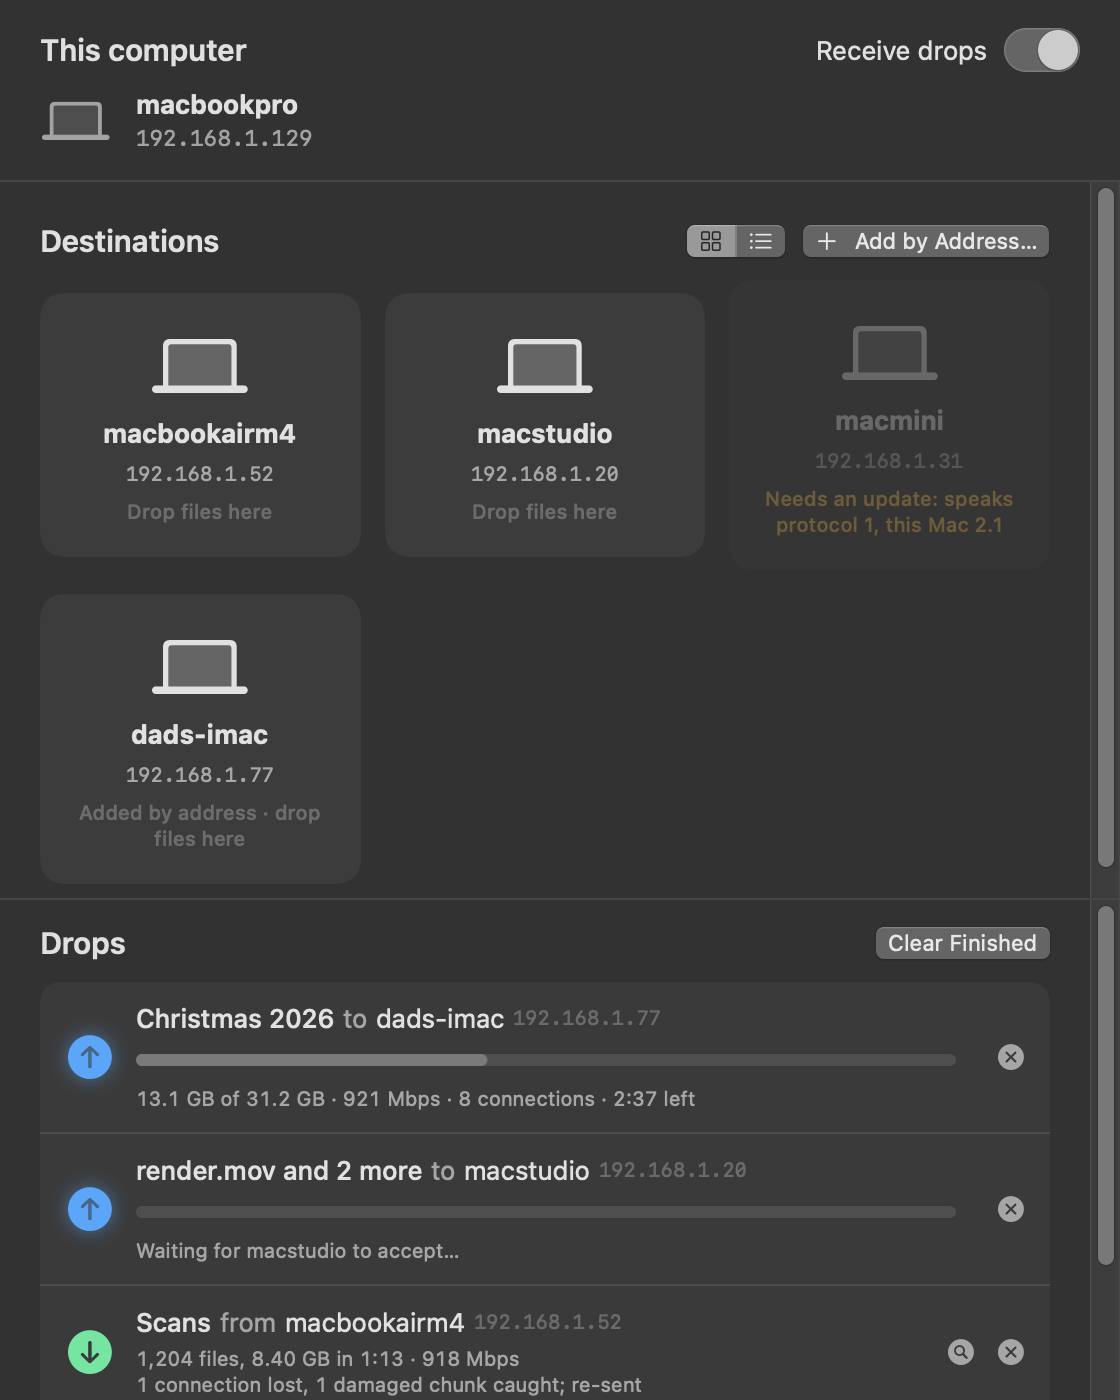
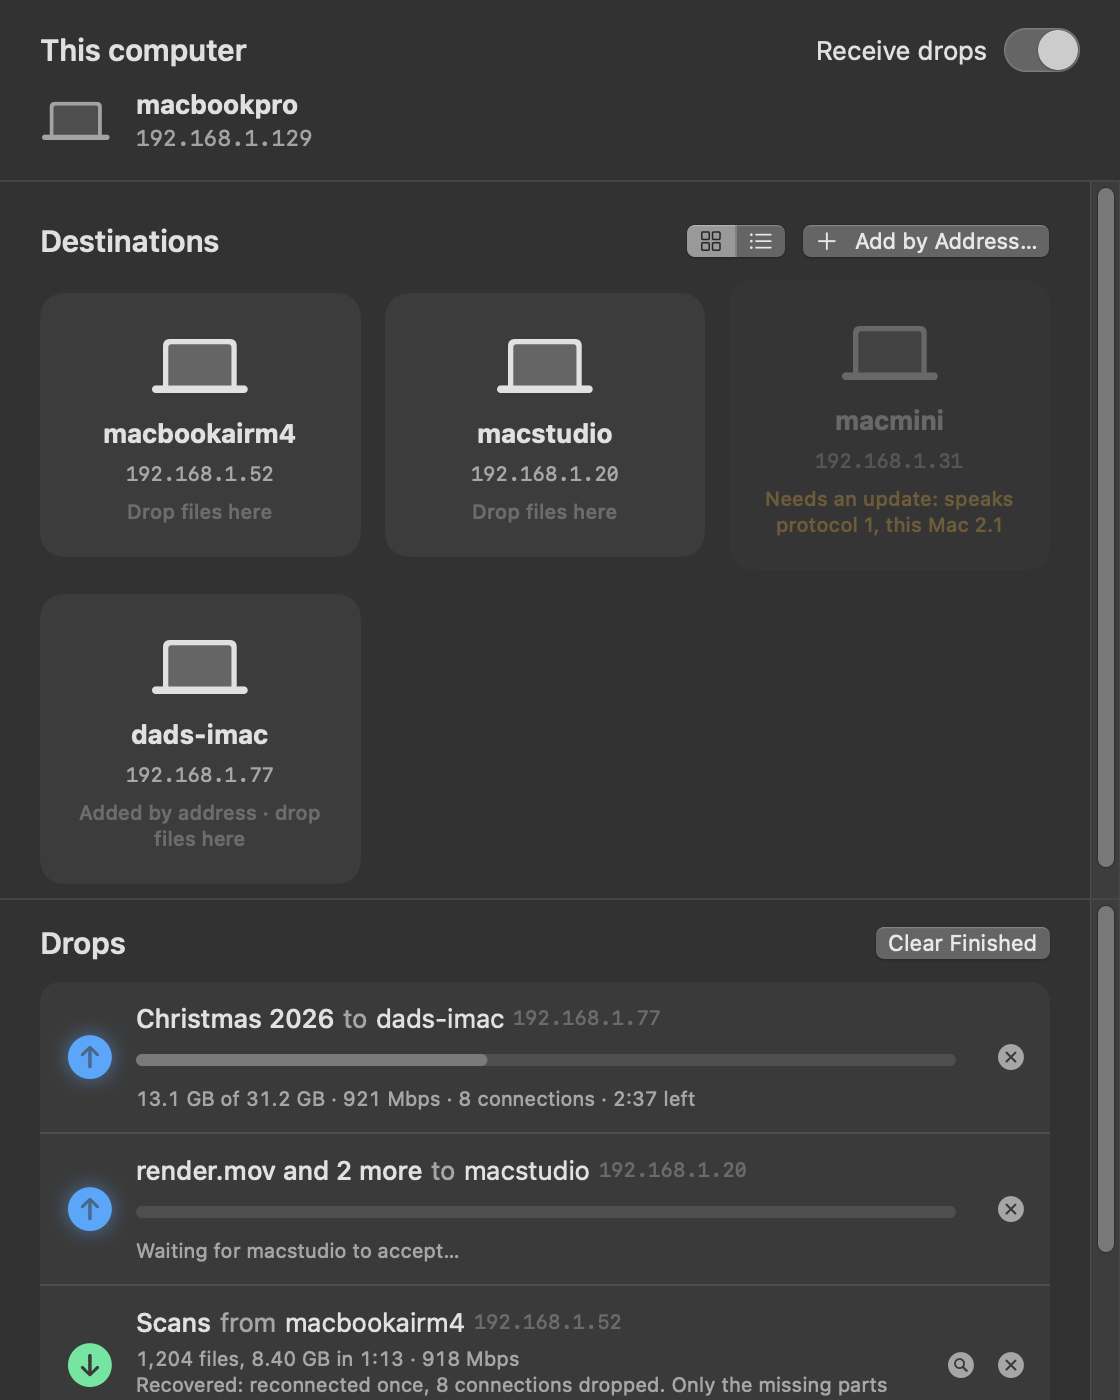
A receiver that has lost the conversation but is getting data says so, and waits
Found by the owner pulling a cable for a minute on 0.2.0. The receiver timed
its control connection out; the sender's survived as far as it could tell, its
data connections were replaced, and 5 GB crossed while the receiver's window
said 'lost the connection, waiting'. The sender learned of it only on writing
'done', then resumed in half a second.

The receiver now shows itself as transferring while data arrives, and counts
its minute from the last byte rather than from the loss: with 0.2.0 a remainder
longer than a minute would have ended a drop that was working. A chaos test
reproduces it (ChaosProxy.killFarSide) and fails against 0.2.0's receiver.

The summary of what a drop got past no longer says 're-sent', which read as
starting over: 'Recovered: reconnected once, 8 connections dropped. Only the
missing parts were sent again.'

diff --git a/Sources/NimbusDropCore/Receiver.swift b/Sources/NimbusDropCore/Receiver.swift
@@ -148,6 +148,8 @@ public final class ReceiveSession: Transfer, @unchecked Sendable {
     private var finished = 0
     private var roundStartBytes: Int64 = 0
     private var conducted = false
+    /// The control connection is gone and the session is waiting for the sender to bring another.
+    private var awaitingControl = false
 
     init(control: Socket, offer: Offer, listener: DropListener) {
         self.control = control
@@ -226,10 +228,22 @@ public final class ReceiveSession: Transfer, @unchecked Sendable {
             control.shutdown()
             streams.lock()
             for s in active { s.shutdown() }
-            let deadline = Date().addingTimeInterval(Tuning.reconnectSeconds)
-            while incoming == nil, !isOver, streams.wait(until: min(deadline, Date().addingTimeInterval(0.2))) || Date() < deadline {}
+            awaitingControl = true
+            // The minute is counted from the last sign of the sender: while data connections are
+            // open and delivering, it is there, whatever has become of the control connection.
+            var deadline = Date().addingTimeInterval(Tuning.reconnectSeconds)
+            var seen = progress.doneBytes
+            while incoming == nil, !isOver, Date() < deadline {
+                streams.wait(until: min(deadline, Date().addingTimeInterval(0.2)))
+                let bytes = progress.doneBytes
+                if bytes != seen {
+                    seen = bytes
+                    deadline = Date().addingTimeInterval(Tuning.reconnectSeconds)
+                }
+            }
             let fresh = incoming
             incoming = nil
+            awaitingControl = false
             streams.unlock()
             if isOver { throw lost }
             guard let fresh else {
@@ -424,13 +438,22 @@ public final class ReceiveSession: Transfer, @unchecked Sendable {
     /// connection only; the chunks it did not deliver are asked for again. Trouble with the disk
     /// ends the drop.
     func runStream(_ socket: Socket) {
+        let from = socket.peerAddress
         track(socket)
         streams.lock()
         active.append(socket)
+        let waiting = awaitingControl
         streams.unlock()
         update { $0.connections += 1 }
+        // The conversation's connection is still missing, but the sender is plainly there and
+        // sending: this is a drop that is moving, and it says so. (The sender finds out about
+        // the dead connection only when it next has something to say, which may be at the end.)
+        if waiting, state == .reconnecting {
+            log("data is arriving again from \(from), ahead of the control connection")
+            setState(.transferring)
+        }
         do { try receive(socket) } catch let fault as StreamFault {
-            log(fault == .damaged ? "a chunk arrived damaged from \(socket.peerAddress); closing that connection" : "a data connection from \(socket.peerAddress) was lost")
+            log(fault == .damaged ? "a chunk arrived damaged from \(from); closing that connection" : "a data connection from \(from) was lost")
             note {
                 $0.connectionFailures += 1
                 if fault == .damaged { $0.damagedChunks += 1 }
@@ -445,8 +468,11 @@ public final class ReceiveSession: Transfer, @unchecked Sendable {
         streams.lock()
         active.removeAll { $0 === socket }
         finished += 1
+        let idleAgain = awaitingControl && active.isEmpty
         streams.broadcast()
         streams.unlock()
+        // Nothing arriving and still no conversation: back to waiting for the sender.
+        if idleAgain, state == .transferring { setState(.reconnecting) }
     }
 
     private enum StreamFault: Error { case lost, damaged }

diff --git a/Tests/NimbusDropChaosTests/ChaosTests.swift b/Tests/NimbusDropChaosTests/ChaosTests.swift
@@ -293,6 +293,40 @@ final class ChaosTests: XCTestCase {
         try assertArrived(src)
     }
 
+    func testTheReceiverGivesTheConversationUpButTheSenderOnlyFindsOutAtTheEnd() throws {
+        // The owner's test with 0.2.0 on 2026-11-22: a cable out for a while. The receiver timed
+        // its control connection out; the sender's survived as far as the sender could tell,
+        // its data connections were replaced, and 5 GB went across while the receiver's window
+        // still said "lost the connection, waiting". The sender learned its control connection
+        // was dead only on writing "done", and then reconnected in half a second.
+        //
+        // Here: the control connection dies on the receiver's side only. The drop must carry
+        // on, must say it is moving while it moves, and must end with one reconnect.
+        let lines = Box<[String]>([])
+        DropLog.sink = { line in lines.value += [line] }
+        defer { DropLog.sink = nil }
+        Tuning.reconnectSeconds = 2   // far less than the rest of the drop takes
+        let src = try makeTree(megabytes: 48)
+        proxy.set { $0.bytesPerSecond = 6 << 20 }
+        proxy.whenForwarded(bytes: 2 << 20) { $0.killFarSide(.control) }
+        let s = send(src)
+        wait(s)
+        XCTAssertEqual(s.state, .completed)
+        XCTAssertEqual(s.stats.reconnects, 1, "the sender reconnected once, when it had something to say")
+        XCTAssertEqual(received.value.count, 1, "the person was asked once")
+        let r = try receiverSide()
+        XCTAssertEqual(r.state, .completed, "the receiver did not give the drop up while data was still arriving")
+        try assertArrived(src)
+
+        // The receiver's story, in order: lost, moving again (before the sender is back), back.
+        let story = lines.value.filter { $0.contains(" recv] ") }
+        func index(_ text: String, after: Int = -1) -> Int? { story.indices.first { $0 > after && story[$0].contains(text) } }
+        let lost = try XCTUnwrap(index("lost the control connection"), story.joined(separator: "\n"))
+        let moving = try XCTUnwrap(index("] transferring", after: lost), "it never said it was receiving again:\n" + story.joined(separator: "\n"))
+        let back = try XCTUnwrap(index("the sender is back", after: lost), story.joined(separator: "\n"))
+        XCTAssertLessThan(moving, back, "it showed itself as moving while the conversation was still missing")
+    }
+
     func testTheReceiverComesBackAtAnotherAddress() throws {
         // The old way in goes away for good; the receiver is reachable somewhere else, and the
         // sender is told where when it asks.

diff --git a/Sources/NimbusDropChaos/ChaosProxy.swift b/Sources/NimbusDropChaos/ChaosProxy.swift
@@ -79,6 +79,8 @@ public final class ChaosProxy: @unchecked Sendable {
         var toTarget: Int64 = 0
         var open = 2
         var dead = false
+        /// Dead on the target's side; the client's side is kept open until the client writes.
+        var zombie = false
         init(index: Int, client: Int32, target: Int32) { self.index = index; self.client = client; self.target = target }
     }
 
@@ -155,6 +157,19 @@ public final class ChaosProxy: @unchecked Sendable {
     public func kill(_ scope: Scope = .all) -> Int {
         let victims = lock.withLock { connections.filter { !$0.dead && matches(scope, $0.index) } }
         for c in victims { drop(c) }
+        return victims.count
+    }
+
+    /// Kills connections on the target's side only. The target sees them close; the client sees
+    /// nothing until it next writes on one, and then finds it reset. This is a peer that gave a
+    /// connection up while the link was away: the other end learns of it only when it speaks.
+    @discardableResult
+    public func killFarSide(_ scope: Scope = .all) -> Int {
+        let victims = lock.withLock { connections.filter { !$0.dead && !$0.zombie && matches(scope, $0.index) } }
+        for c in victims {
+            lock.withLock { c.zombie = true; _stats.connectionsKilled += 1 }
+            shutdown(c.target, SHUT_RDWR)
+        }
         return victims.count
     }
 
@@ -252,6 +267,15 @@ public final class ChaosProxy: @unchecked Sendable {
             let want = rate.map { max(256, min(capacity, $0 / 20)) } ?? capacity
             let n = read(from, buffer, want)
             if n < 0, errno == EINTR { continue }
+            if lock.withLock({ c.zombie }) {
+                // The target's side is gone. Its closing is not passed on; the client speaking
+                // is what ends the connection for the client too.
+                if towardTarget, n > 0 { break }
+                if !towardTarget {
+                    while lock.withLock({ c.zombie && !c.dead && !stopped }) { usleep(20_000) }
+                    break
+                }
+            }
             // A link that swallows everything swallows the news that a connection closed, too:
             // neither bytes nor an end of stream get across until it lifts.
             while lock.withLock({ conditions.blackhole && !c.dead && !stopped }) { usleep(20_000) }

diff --git a/Sources/NimbusDrop/MainWindow.swift b/Sources/NimbusDrop/MainWindow.swift
@@ -569,7 +569,7 @@ final class MainWindowController: NSObject, NSWindowDelegate {
             TransferRow(id: UUID(), direction: .send, peerName: "macstudio", peerAddress: "192.168.1.20", title: "render.mov and 2 more",
                         status: "Waiting for macstudio to accept…", fraction: 0, isActive: true, isIndeterminate: true, failed: false, canReveal: false),
             TransferRow(id: UUID(), direction: .receive, peerName: "macbookairm4", peerAddress: "192.168.1.52", title: "Scans",
-                        status: "1,204 files, 8.40 GB in 1:13 · 918 Mbps\n1 connection lost, 1 damaged chunk caught; re-sent", fraction: 1, isActive: false, isIndeterminate: false, failed: false, canReveal: true),
+                        status: "1,204 files, 8.40 GB in 1:13 · 918 Mbps\nRecovered: reconnected once, 8 connections dropped. Only the missing parts were sent again.", fraction: 1, isActive: false, isIndeterminate: false, failed: false, canReveal: true),
             TransferRow(id: UUID(), direction: .send, peerName: "macbookairm4", peerAddress: "192.168.1.52", title: "Backups",
                         status: "Lost the connection to macbookairm4 and could not get it back; send the drop again to continue it", fraction: 0.2, isActive: false, isIndeterminate: false, failed: true, canReveal: false, canRetry: true),
         ]

diff --git a/Sources/NimbusDrop/AppModel.swift b/Sources/NimbusDrop/AppModel.swift
@@ -662,14 +662,15 @@ final class AppModel: ObservableObject {
                            canRetry: failed && sends[t.id] != nil)
     }
 
-    /// "2 connections lost and 1 damaged chunk re-sent": what the drop got past.
+    /// What the drop got past, said so that it cannot be taken for starting over: after trouble
+    /// only the missing parts go again, never the whole drop.
     static func troubleText(_ s: TransferStats) -> String {
         var parts: [String] = []
         let lost = s.connectionFailures - s.damagedChunks
         if s.reconnects > 0 { parts.append("reconnected \(s.reconnects == 1 ? "once" : "\(s.reconnects) times")") }
-        if lost > 0 { parts.append("\(lost) \(lost == 1 ? "connection" : "connections") lost") }
+        if lost > 0 { parts.append("\(lost) \(lost == 1 ? "connection" : "connections") dropped") }
         if s.damagedChunks > 0 { parts.append("\(s.damagedChunks) damaged \(s.damagedChunks == 1 ? "chunk" : "chunks") caught") }
-        return parts.joined(separator: ", ") + (lost > 0 || s.damagedChunks > 0 ? "; re-sent" : "")
+        return "Recovered: " + parts.joined(separator: ", ") + (lost > 0 || s.damagedChunks > 0 ? ". Only the missing parts were sent again." : ".")
     }
 
     // MARK: Notifications

diff --git a/CLAUDE.md b/CLAUDE.md
@@ -196,6 +196,19 @@ hello {} → hello {name, id, version, minor, app}: "who is at this address?", t
   a sender that fails for a reason of its own says so first (`SendSession.fail`), so the
   receiver does not wait out the minute. A 2.0 receiver drops the unknown `resume` frame and the
   sender's minute runs out: no worse than before.
+- **The two ends do not learn of a dead control connection at the same time**, and the gap
+  can be the rest of the drop. The owner pulled a cable for a minute on 0.2.0 (2026-11-22):
+  the receiver's keepalive timed its control connection out, the sender's never did, the
+  sender's data connections were replaced, and 5 GB crossed while the receiver sat in
+  `.reconnecting`. The sender found out only on writing `done` (Broken pipe), then resumed in
+  half a second. Two consequences, both fixed after 0.2.0: the receiver showed "lost the
+  connection, waiting" throughout, and its minute was running against a sender that was plainly
+  there (a remainder longer than a minute would have ended the drop). Now a data connection
+  attaching while the receiver waits puts it back in `.transferring`, and the minute is counted
+  from the last byte that arrived. `ChaosProxy.killFarSide` models it (dead on the target's
+  side; the client finds out when it writes), in
+  `testTheReceiverGivesTheConversationUpButTheSenderOnlyFindsOutAtTheEnd`, which fails against
+  0.2.0's receiver. Why the sender's keepalive did not fire is not known; do not count on it.
 - **Silence is treated as a lost connection.** The watchdog (`Transfer.silence`) closes the
   control connection instead of failing, which leads into the same reconnect. A link that went
   quiet and came back is thereby recovered; a peer that really is frozen costs one more minute.
